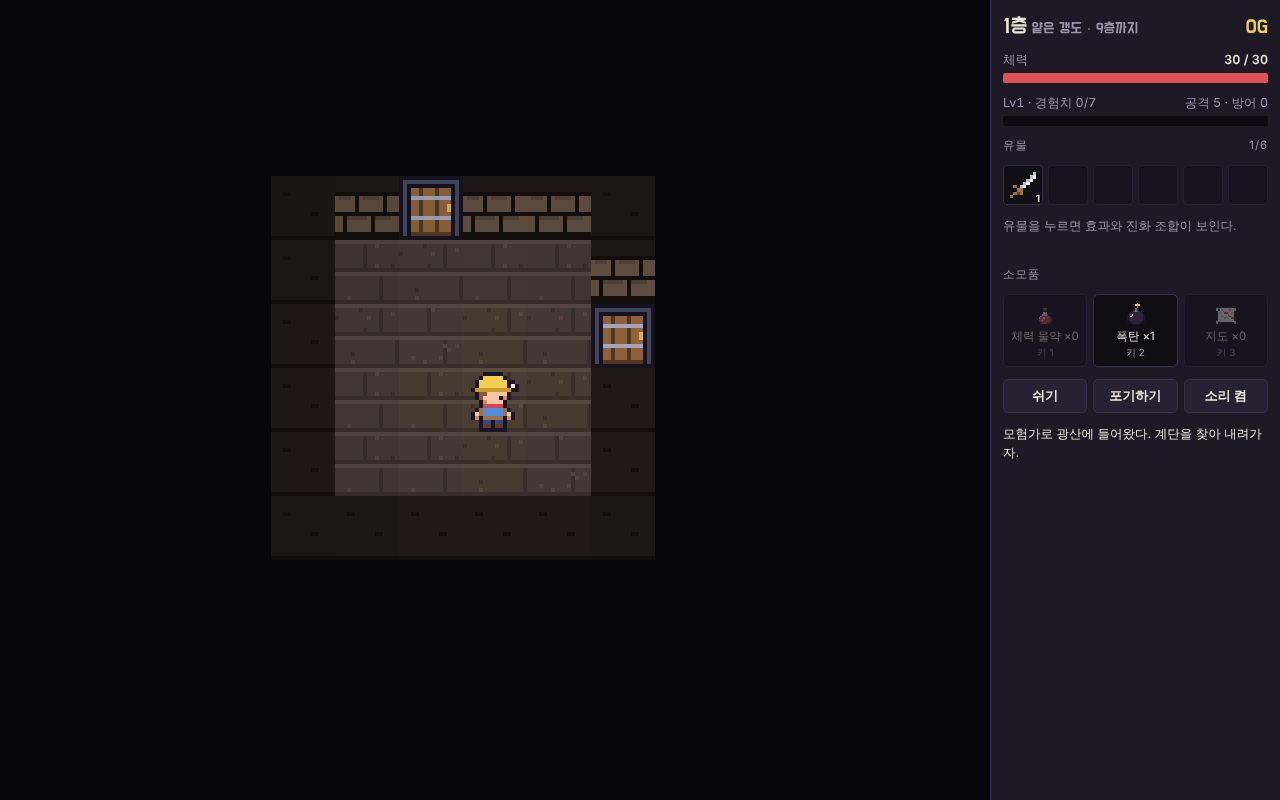
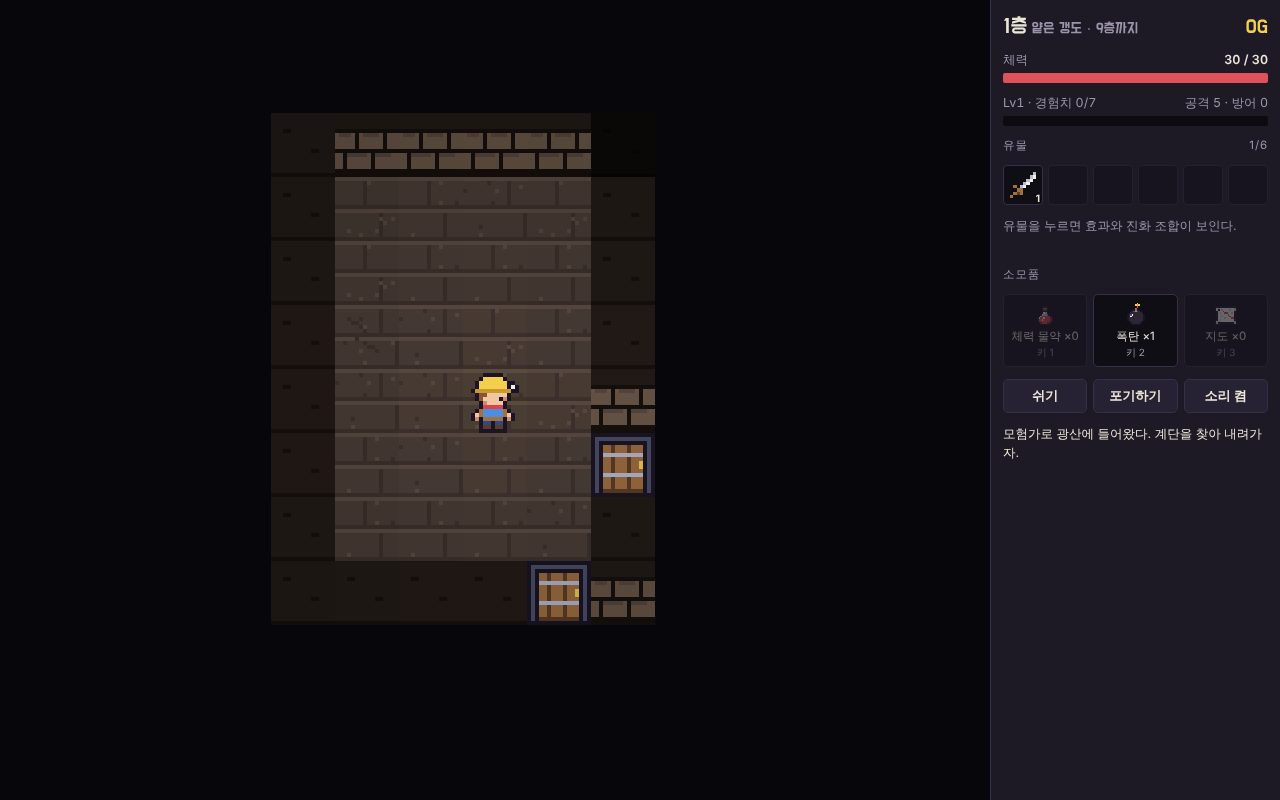
v0.8.1: iPhone Safari fixes and home-screen app support
- Full-height layout with 100dvh, no page pinch-zoom (gesturestart), no rubber-band bounce, no text selection or callout on long press, no text inflation in landscape, no double-tap zoom on buttons
- Sound resumes on any touch after iOS suspends or interrupts it
- Home-screen icon, apple web-app tags and a web manifest so a public copy runs full screen like an app; hub respects the notch

Claude-Session: https://claude.ai/code/session_01Y854cUTErFEN7DWEJv3jHN

Changed region(s): [[0.25, 0.1562, 0.5312, 0.7812], [0.375, 0.4688, 0.4062, 0.5312]]

diff --git a/styles.css b/styles.css
@@ -16,7 +16,10 @@
   --font-body: system-ui, -apple-system, "Apple SD Gothic Neo", "Malgun Gothic", "Noto Sans KR", sans-serif;
   color-scheme: dark;
 }
-html, body { height: 100%; }
+/* iPhone Safari: no text inflation on its side, no rubber-band bounce, no grey tap flash */
+html { -webkit-text-size-adjust: 100%; text-size-adjust: 100%; }
+html, body { height: 100%; overscroll-behavior: none; }
+button { -webkit-tap-highlight-color: transparent; touch-action: manipulation; }
 [hidden] { display: none !important; }
 body {
   margin: 0; background: var(--bg); color: var(--fg); font-family: var(--font-body); font-size: 14px;
@@ -26,9 +29,10 @@ button { font: inherit; color: inherit; cursor: pointer; }
 button:focus-visible { outline: 2px solid var(--accent); outline-offset: 2px; }
 .pix { image-rendering: pixelated; image-rendering: crisp-edges; }
 #app { height: 100%; display: flex; flex-direction: column; }
+@supports (height: 100dvh) { #app { height: 100dvh; } }
 
 /* ---------- Hub ---------- */
-#hub { flex: 1; overflow-y: auto; padding-block: 20px 32px; padding-left: max(16px, env(safe-area-inset-left, 0px)); padding-right: max(16px, env(safe-area-inset-right, 0px)); }
+#hub { flex: 1; overflow-y: auto; padding-top: max(20px, env(safe-area-inset-top, 0px)); padding-bottom: max(32px, env(safe-area-inset-bottom, 0px)); padding-left: max(16px, env(safe-area-inset-left, 0px)); padding-right: max(16px, env(safe-area-inset-right, 0px)); }
 .hub-inner { max-width: 880px; margin: 0 auto; display: flex; flex-direction: column; gap: 18px; }
 .hub-head { display: flex; align-items: flex-end; justify-content: space-between; gap: 12px; flex-wrap: wrap; }
 .logo { font-family: var(--font-display); font-size: clamp(34px, 7vw, 52px); line-height: 1; letter-spacing: 0.01em; color: var(--accent); text-shadow: 3px 3px 0 #0a0910; }
@@ -72,7 +76,9 @@ button:focus-visible { outline: 2px solid var(--accent); outline-offset: 2px; }
 /* ---------- Game ---------- */
 #game { flex: 1; display: grid; grid-template-columns: 1fr 290px; min-height: 0; }
 #stage { position: relative; min-width: 0; min-height: 0; background: #07060a; }
-#stage { touch-action: none; -webkit-user-select: none; user-select: none; -webkit-touch-callout: none; }
+/* the dungeon never scrolls, zooms or selects text under a finger; only the bag's list scrolls */
+#game { touch-action: none; -webkit-user-select: none; user-select: none; -webkit-touch-callout: none; }
+#side { touch-action: pan-y; }
 #stage canvas { display: block; }
 #phaser { position: absolute; inset: 0; }
 #banner { position: absolute; left: 50%; top: 18%; transform: translateX(-50%); font-family: var(--font-display); font-size: clamp(22px, 4vw, 34px); color: var(--gold); text-shadow: 3px 3px 0 #000; pointer-events: none; white-space: nowrap; opacity: 0; transition: opacity .3s; }

diff --git a/src/main.js b/src/main.js
@@ -255,7 +255,10 @@ function toggleSound() { sfx.unlockAudio(); sfx.setMuted(!sfx.isMuted()); showSo
 $('soundBtn').addEventListener('click', toggleSound);
 showSoundState();
 // browsers allow sound only after the first click or key press
-for (const ev of ['pointerdown', 'keydown']) document.addEventListener(ev, () => sfx.unlockAudio(), { once: true });
+// (iPhone only counts a finger lifting or a click, so listen for those every time, not just once)
+for (const ev of ['pointerdown', 'touchend', 'click', 'keydown']) document.addEventListener(ev, () => sfx.unlockAudio(), { passive: true });
+// iPhone Safari zooms the whole page on a pinch even over the map; the map does its own zoom
+document.addEventListener('gesturestart', ev => ev.preventDefault());
 
 $('waitBtn').addEventListener('click', restOnce);
 $('bagClose').addEventListener('click', () => setBag(false));

diff --git a/index.html b/index.html
@@ -4,6 +4,13 @@
 <meta charset="utf-8">
 <meta name="viewport" content="width=device-width, initial-scale=1, viewport-fit=cover">
 <title>픽셀 던전 크롤러</title>
+<meta name="theme-color" content="#14121a">
+<meta name="apple-mobile-web-app-capable" content="yes">
+<meta name="mobile-web-app-capable" content="yes">
+<meta name="apple-mobile-web-app-status-bar-style" content="black-translucent">
+<meta name="apple-mobile-web-app-title" content="픽셀 던전">
+<link rel="apple-touch-icon" href="apple-touch-icon.png">
+<link rel="manifest" href="manifest.webmanifest">
 <link rel="preconnect" href="https://fonts.googleapis.com">
 <link rel="stylesheet" href="https://fonts.googleapis.com/css2?family=Do+Hyeon&display=swap">
 <link rel="stylesheet" href="styles.css">

diff --git a/src/ui/hub.js b/src/ui/hub.js
@@ -23,7 +23,7 @@ export function renderHub(ctx) {
   const inner = el('div', 'hub-inner');
 
   const head = el('div', 'hub-head');
-  head.append(el('div', 'logo', '픽셀 던전 크롤러<small>v0.8 · 9층 · 보스 3마리 · 광석 등급과 노다지</small>'));
+  head.append(el('div', 'logo', '픽셀 던전 크롤러<small>v0.8.1 · 9층 · 보스 3마리 · 광석 등급과 노다지 · 아이폰</small>'));
   const purse = el('div', 'purse');
   purse.append(icon('gold', 24), el('span', null, `${meta.gold}G`));
   head.append(purse);

diff --git a/src/audio/sfx.js b/src/audio/sfx.js
@@ -31,7 +31,8 @@ export function unlockAudio() {
     const data = noiseBuf.getChannelData(0);
     for (let i = 0; i < data.length; i++) data[i] = Math.random() * 2 - 1;
   }
-  if (ctx.state === 'suspended') ctx.resume();
+  // iPhone suspends (or "interrupts") the sound after a call or a trip to another app
+  if (ctx.state !== 'running') ctx.resume()?.catch?.(() => {});
 }
 
 function envelope(g, t, vol, attack, dur) {

diff --git a/README.md b/README.md
@@ -45,6 +45,13 @@ python3 -m http.server 8000
 - 화면 배치: 위에 층·체력·골드, 아래에 쉬기, 물약, 폭탄, 지도, 가방. 유물과 소리, 포기하기는 가방 안에 있어요. 최근 메시지는 지도 아래쪽에 잠깐 떠요
 - 화면은 기기의 실제 픽셀 밀도로 그려서 폰에서도 도트가 선명하고, 칸 크기는 한 줄에 약 10칸이 보이게 맞춰요
 
+### 아이폰 (v0.8.1)
+
+- 아이폰 Safari에 맞춰 두었어요: 화면 높이(`100dvh`), 두 손가락으로 페이지가 확대되거나 튕기지 않게, 꾹 눌러도 글자 선택이나 메뉴가 안 뜨게, 가로 화면에서 글자가 커지지 않게
+- 소리는 손가락을 뗄 때마다 다시 켤 수 있으면 켜요. 전화나 다른 앱을 다녀와도 다시 나와요. 무음 스위치가 켜져 있으면 소리가 안 나요
+- 공개 웹 주소에서 Safari로 열고 "홈 화면에 추가"하면 아이콘(`apple-touch-icon.png`)으로 앱처럼 전체 화면에서 돌아가요(`manifest.webmanifest`)
+- 아이폰은 파일로 받은 .html을 미리보기로만 열어서 게임이 돌지 않아요. 아이폰에서는 웹 주소로 열어야 해요. itch.io에 올릴 때는 `index.html` 하나와 아이콘을 zip으로 묶어 HTML 게임으로 올리면 돼요
+
 ## 던전에 있는 것 (v0.7)
 
 방과 문으로 이루어진 녹픽던식 층이에요. 문은 닫혀 있으면 안이 안 보이고, 누군가 서 있을 때만 열려요. 방마다 성격이 하나씩 있어요.
